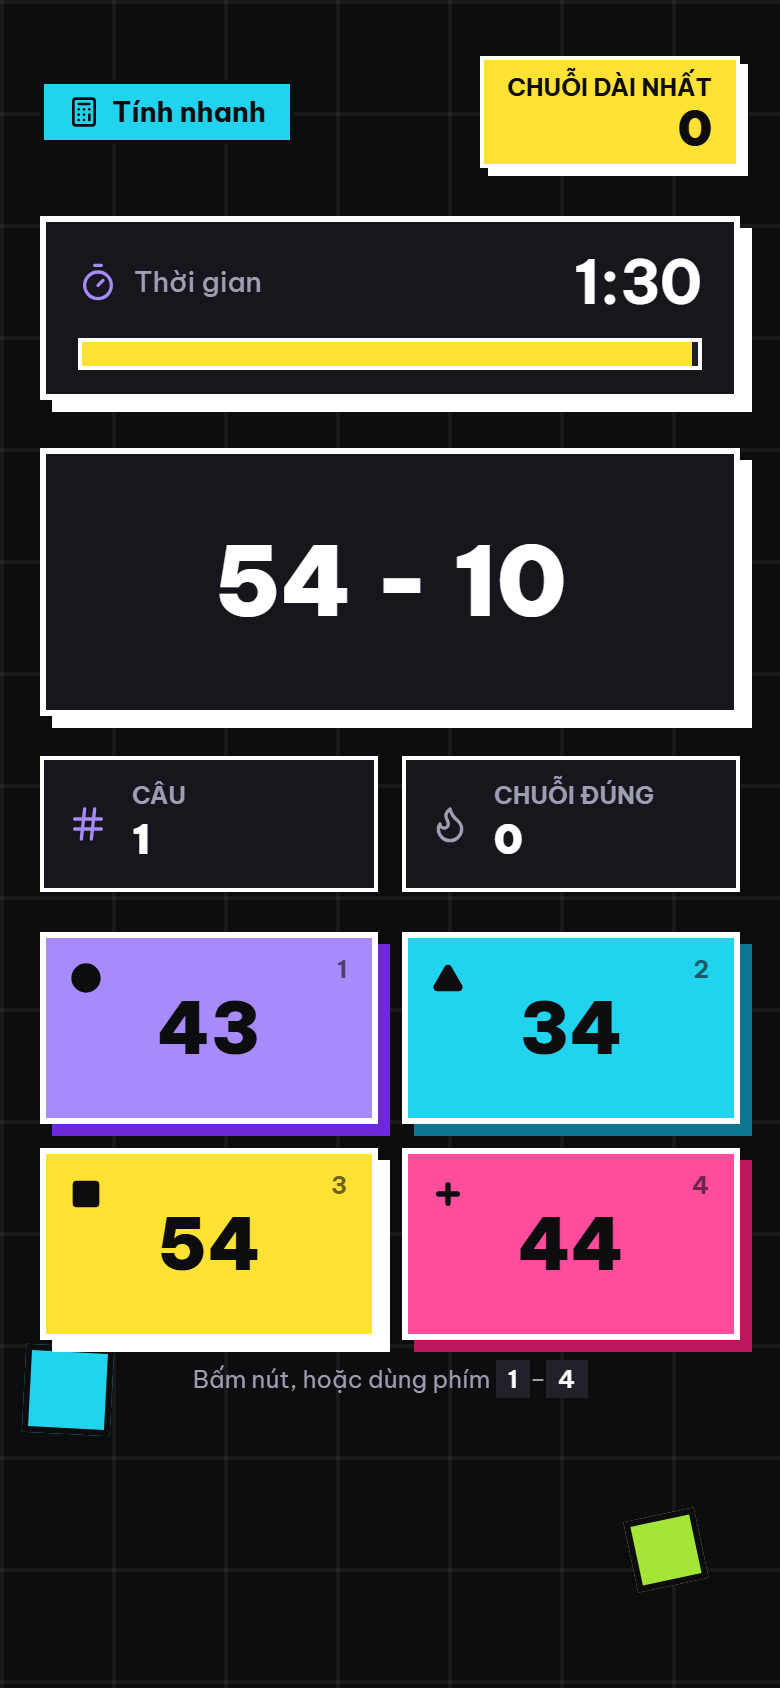
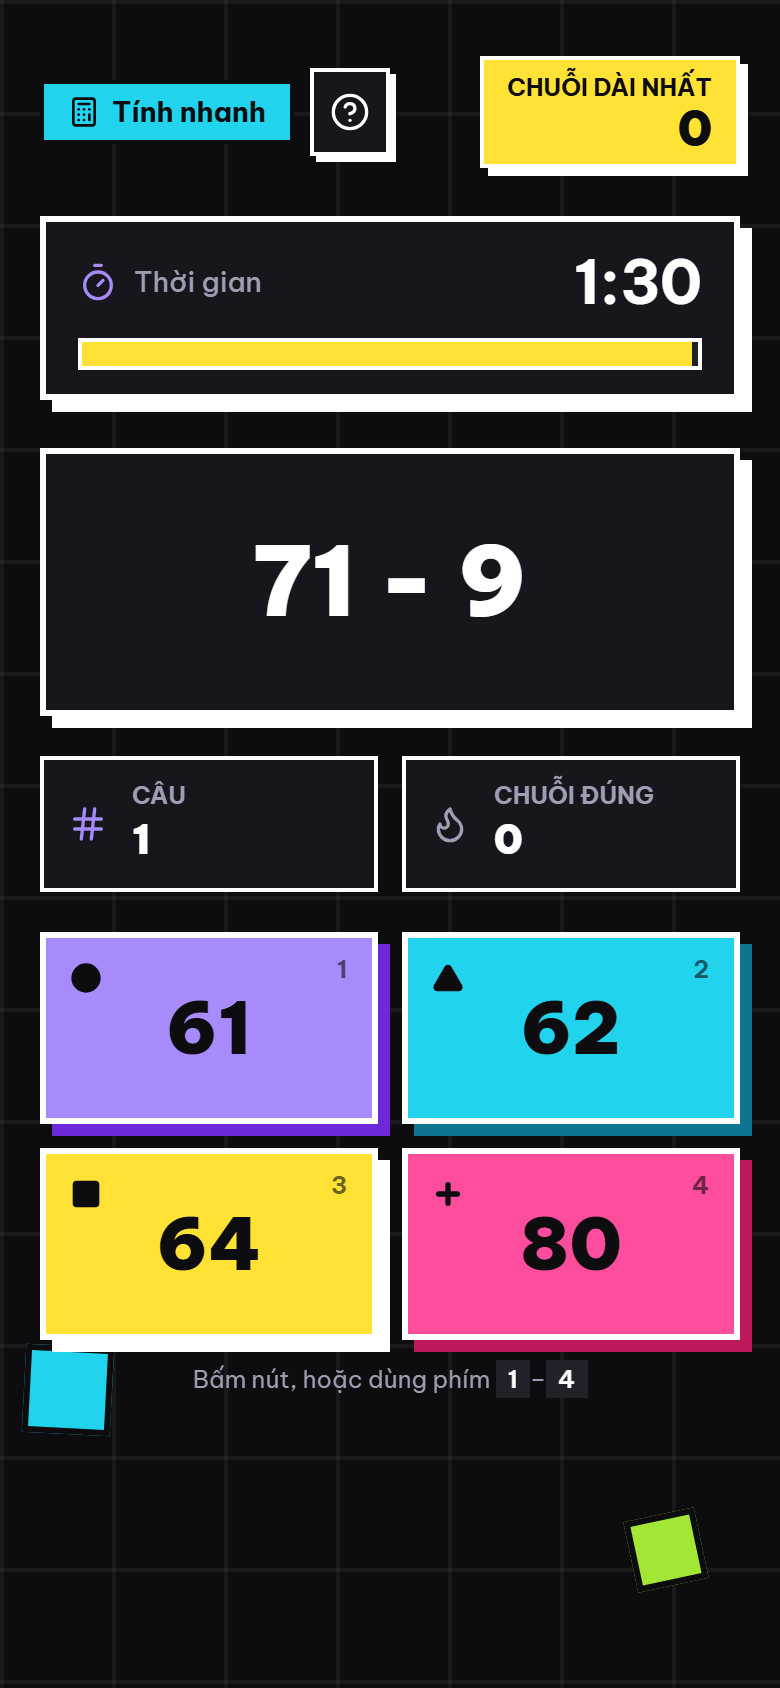
feat(web): hướng dẫn cách chơi cho từng trò
Người chơi ở booth cầm điện thoại lên và có 60 giây, không ai hỏi được ai —
mà màn hình chỉ nói "Nhìn kỹ nhé…" rồi "Lặp lại đi!", tức giả định họ đã biết
luật. Chính người dựng app cũng phải hỏi Nhớ nhanh chơi thế nào.

Hai chỗ, hai kiểu, theo đúng chỗ người chơi đang đứng:
- PHÒNG CHỜ → thẻ bày sẵn, không phải bấm gì. Đứng đợi BTC là khoảng thời gian
  chết duy nhất trong cả lượt, và là lúc duy nhất đọc mà không mất giây nào của
  mình. Giấu sau một cái nút ở đây là bỏ phí đúng lúc người ta rảnh nhất.
- ĐANG CHƠI → nút "?" nhỏ cạnh tên trò, mở ra lớp phủ. Đồng hồ đang chạy nên
  luật không được đứng giữa người chơi và bàn chơi. Lớp phủ nói thẳng "Đồng hồ
  vẫn đang chạy" — mở bảng luật giữa lượt rất dễ bị tưởng là tạm dừng.

Nội dung ở lib/game-guide.ts, tách khỏi game-theme.ts vì đây là NỘI DUNG chứ
không phải trang trí: người sửa luật trong code sẽ không nghĩ tới việc mở file
bảng màu ra.

6 test, trong đó có một test canh độ dài câu — ai đang xếp hàng sẽ không đọc
đoạn văn.

diff --git a/apps/web/src/components/GameGuide.tsx b/apps/web/src/components/GameGuide.tsx
@@ -1,0 +1,123 @@
+import { useEffect, useState } from 'react';
+import { CircleQuestionMark, Lightbulb, Trophy, X } from 'lucide-react';
+import { GAME_GUIDE } from '../lib/game-guide';
+import { GAME_THEME } from '../lib/game-theme';
+import { DURATION_MS, GAME_LABEL, type GameKind } from '../lib/types';
+
+/**
+ * Hướng dẫn chơi, hai kiểu hiện tuỳ chỗ đứng của người chơi:
+ *
+ *   PHÒNG CHỜ  → `GameGuideCard`: bày sẵn ra, không phải bấm gì.
+ *                Lúc đứng đợi BTC là khoảng thời gian chết duy nhất trong cả
+ *                lượt; giấu luật sau một cái nút ở đây là bỏ phí đúng lúc người
+ *                ta rảnh nhất.
+ *   ĐANG CHƠI  → `GameGuideButton`: một nút nhỏ, mở ra lớp phủ.
+ *                Đồng hồ đang chạy nên luật KHÔNG được chiếm chỗ của bàn chơi.
+ */
+
+/** Nội dung luật, dùng chung cho cả thẻ ở phòng chờ lẫn lớp phủ trong lượt. */
+function GuideBody({ game }: { game: GameKind }) {
+  const { steps, scoring, tip } = GAME_GUIDE[game];
+
+  return (
+    <div className="space-y-3">
+      <ol className="space-y-2">
+        {steps.map((step, i) => (
+          <li key={i} className="flex gap-2.5 text-sm">
+            <span
+              aria-hidden="true"
+              className={`grid h-6 w-6 shrink-0 place-items-center font-display text-xs font-black ${GAME_THEME[game].tile}`}
+            >
+              {i + 1}
+            </span>
+            <span className="min-w-0 pt-0.5">{step}</span>
+          </li>
+        ))}
+      </ol>
+
+      <p className="flex items-start gap-2 border-2 border-accent bg-accent px-2.5 py-1.5 text-sm font-bold text-ink">
+        <Trophy aria-hidden="true" className="mt-0.5 h-4 w-4 shrink-0" />
+        {scoring}
+      </p>
+
+      {/* Icon SVG chứ không phải emoji — emoji mỗi hệ máy vẽ một kiểu, và repo
+          này đã chọn lucide cho toàn bộ icon. */}
+      {tip && (
+        <p className="flex items-start gap-1.5 text-xs text-muted">
+          <Lightbulb aria-hidden="true" className="mt-0.5 h-3.5 w-3.5 shrink-0" />
+          {tip}
+        </p>
+      )}
+    </div>
+  );
+}
+
+/** Thẻ luật bày sẵn — dùng ở phòng chờ. */
+export function GameGuideCard({ game }: { game: GameKind }) {
+  return (
+    <section className="card p-5" aria-labelledby="guide-heading">
+      <h2 id="guide-heading" className="mb-3 font-display text-lg font-black uppercase tracking-tight">
+        Cách chơi {GAME_LABEL[game]}
+        <span className="ml-2 font-sans text-sm font-normal text-muted">
+          {DURATION_MS[game] / 1000} giây
+        </span>
+      </h2>
+      <GuideBody game={game} />
+    </section>
+  );
+}
+
+/** Nút mở luật — dùng trong lượt, khi đồng hồ đang chạy. */
+export function GameGuideButton({ game }: { game: GameKind }) {
+  const [open, setOpen] = useState(false);
+
+  useEffect(() => {
+    if (!open) return;
+    const onKey = (e: KeyboardEvent) => {
+      if (e.key === 'Escape') setOpen(false);
+    };
+    window.addEventListener('keydown', onKey);
+    return () => window.removeEventListener('keydown', onKey);
+  }, [open]);
+
+  return (
+    <>
+      <button
+        onClick={() => setOpen(true)}
+        aria-label={`Cách chơi ${GAME_LABEL[game]}`}
+        className="btn btn-ghost btn-sm shrink-0 px-2"
+      >
+        <CircleQuestionMark aria-hidden="true" className="h-5 w-5" />
+      </button>
+
+      {open && (
+        <div
+          role="dialog"
+          aria-modal="true"
+          aria-label={`Cách chơi ${GAME_LABEL[game]}`}
+          onClick={() => setOpen(false)}
+          className="fixed inset-0 z-50 grid place-items-center overflow-y-auto bg-ink/95 p-4"
+        >
+          <div onClick={(e) => e.stopPropagation()} className="card w-full max-w-sm p-5">
+            <h2 className="mb-3 font-display text-lg font-black uppercase tracking-tight">
+              Cách chơi {GAME_LABEL[game]}
+            </h2>
+            <GuideBody game={game} />
+
+            {/*
+              Nói thẳng là đồng hồ KHÔNG dừng. Người chơi mở bảng luật giữa lượt
+              rất dễ tưởng nó tạm dừng giúp mình, rồi đóng ra thì mất mươi giây mà
+              không hiểu vì sao.
+            */}
+            <p className="mt-3 text-xs font-bold text-warn">Đồng hồ vẫn đang chạy.</p>
+
+            <button onClick={() => setOpen(false)} autoFocus className="btn btn-accent mt-4 w-full">
+              <X aria-hidden="true" className="h-5 w-5" />
+              Chơi tiếp
+            </button>
+          </div>
+        </div>
+      )}
+    </>
+  );
+}

diff --git a/apps/web/src/lib/game-guide.ts b/apps/web/src/lib/game-guide.ts
@@ -1,0 +1,60 @@
+import type { GameKind } from './types';
+
+/**
+ * Luật chơi của từng trò, viết cho NGƯỜI CHƠI đọc trong mười giây.
+ *
+ * Tách khỏi `game-theme.ts` (icon, màu) vì đây là NỘI DUNG, không phải trang trí:
+ * sửa luật trong code thì phải sửa cả ở đây, và để nó nằm cạnh bảng màu thì
+ * người sửa luật không nghĩ tới chuyện mở file đó ra.
+ *
+ * Viết theo thứ tự người chơi gặp: thấy gì trước, làm gì tiếp, rồi mới tới điểm.
+ * Mỗi bước một câu, không câu nào dài quá một dòng trên điện thoại — ai đang xếp
+ * hàng ở booth sẽ không đọc đoạn văn.
+ */
+export interface GameGuide {
+  /** Các bước, theo đúng thứ tự người chơi gặp. */
+  steps: string[];
+  /** Điểm tính thế nào — thứ quyết định người ta chơi ra sao. */
+  scoring: string;
+  /** Một mẹo hoặc một cái bẫy đáng nói trước. Bỏ trống nếu không có gì đáng. */
+  tip?: string;
+}
+
+export const GAME_GUIDE: Record<GameKind, GameGuide> = {
+  math: {
+    steps: [
+      'Màn hình hiện một phép tính, bốn đáp án ở dưới.',
+      'Bấm ô có đáp án đúng — trên máy tính gõ được phím 1–4.',
+      'Trả lời sai thì chuỗi về 0, nhưng kỷ lục cũ vẫn giữ nguyên.',
+    ],
+    scoring: 'Điểm = CHUỖI ĐÚNG DÀI NHẤT, không phải tổng số câu đúng.',
+    tip: 'Đúng liên tiếp mới ăn điểm, nên chậm một nhịp còn hơn bấm bừa.',
+  },
+  draw: {
+    steps: [
+      'Màn hình cho một từ khoá — vẽ đúng thứ đó.',
+      'AI đoán liên tục trong lúc bạn vẽ, xem dòng "AI nghĩ: …".',
+      'AI nhận ra rồi thì bấm NỘP BÀI ngay. Hết giờ server tự nộp hộ.',
+    ],
+    scoring: 'Điểm = 150 trừ số giây đã dùng. AI không nhận ra thì 0 điểm.',
+    tip: 'Vẽ to, một nét liền, đừng thêm chi tiết — nộp sớm mới được điểm cao.',
+  },
+  memory: {
+    steps: [
+      'Bốn ô sẽ nháy sáng theo một thứ tự.',
+      'Nháy xong, bấm lại đúng thứ tự vừa thấy.',
+      'Đúng thì chuỗi dài thêm một ô; sai thì về cấp 1, kỷ lục vẫn giữ.',
+    ],
+    scoring: 'Điểm = CẤP CAO NHẤT vượt được.',
+    tip: 'Chờ nháy xong hẳn mới bấm: bấm trong lúc còn đang nháy bị tính là gian lận.',
+  },
+  spot: {
+    steps: [
+      'Cả lưới cùng một màu, đúng MỘT ô lệch màu một chút.',
+      'Chạm vào ô lệch đó.',
+      'Mỗi cấp lưới dày thêm và hai màu sát nhau hơn.',
+    ],
+    scoring: 'Điểm = CẤP CAO NHẤT vượt được. Chạm trượt thì về cấp 1, kỷ lục vẫn giữ.',
+    tip: 'Nhìn lướt cả lưới, đừng soi từng ô — mắt bắt chỗ lệch nhanh hơn là dò.',
+  },
+};

diff --git a/apps/web/src/components/GameGuide.test.tsx b/apps/web/src/components/GameGuide.test.tsx
@@ -1,0 +1,71 @@
+// @vitest-environment jsdom
+import { cleanup, fireEvent, render, screen } from '@testing-library/react';
+import { afterEach, describe, expect, it } from 'vitest';
+import { GameGuideButton, GameGuideCard } from './GameGuide';
+import { GAME_GUIDE } from '../lib/game-guide';
+import { GAME_KINDS } from '../lib/types';
+
+/**
+ * Người chơi ở booth có 60 giây và không ai hỏi được ai. Luật phải ở ngay đó,
+ * và phải đúng trò họ sắp chơi — hiện nhầm luật còn tệ hơn không hiện gì.
+ */
+afterEach(() => cleanup());
+
+describe('GameGuideCard (phòng chờ)', () => {
+  it('bày sẵn luật, không phải bấm gì', () => {
+    render(<GameGuideCard game="memory" />);
+    for (const step of GAME_GUIDE.memory.steps) {
+      expect(screen.getByText(step)).toBeTruthy();
+    }
+    expect(screen.getByText(GAME_GUIDE.memory.scoring)).toBeTruthy();
+  });
+
+  it('hiện luật của ĐÚNG trò, không phải trò khác', () => {
+    render(<GameGuideCard game="spot" />);
+    expect(screen.getByText(GAME_GUIDE.spot.steps[0]!)).toBeTruthy();
+    expect(screen.queryByText(GAME_GUIDE.math.steps[0]!)).toBeNull();
+  });
+});
+
+describe('GameGuideButton (trong lượt)', () => {
+  it('mặc định ĐÓNG — không che bàn chơi', () => {
+    render(<GameGuideButton game="math" />);
+    expect(screen.queryByRole('dialog')).toBeNull();
+    expect(screen.queryByText(GAME_GUIDE.math.steps[0]!)).toBeNull();
+  });
+
+  it('bấm thì mở, và nói rõ đồng hồ vẫn chạy', () => {
+    render(<GameGuideButton game="math" />);
+    fireEvent.click(screen.getByRole('button', { name: /cách chơi/i }));
+
+    expect(screen.getByRole('dialog')).toBeTruthy();
+    expect(screen.getByText(GAME_GUIDE.math.steps[0]!)).toBeTruthy();
+    // Mở bảng luật giữa lượt rất dễ bị tưởng là tạm dừng.
+    expect(screen.getByText(/đồng hồ vẫn đang chạy/i)).toBeTruthy();
+  });
+
+  it('đóng được bằng nút, và bằng phím Esc', () => {
+    render(<GameGuideButton game="draw" />);
+    const open = () => fireEvent.click(screen.getByRole('button', { name: /cách chơi/i }));
+
+    open();
+    fireEvent.click(screen.getByRole('button', { name: /chơi tiếp/i }));
+    expect(screen.queryByRole('dialog')).toBeNull();
+
+    open();
+    fireEvent.keyDown(window, { key: 'Escape' });
+    expect(screen.queryByRole('dialog')).toBeNull();
+  });
+});
+
+describe('nội dung luật', () => {
+  it('trò nào cũng có đủ các bước và cách tính điểm', () => {
+    for (const game of GAME_KINDS) {
+      const guide = GAME_GUIDE[game];
+      expect(guide.steps.length).toBeGreaterThanOrEqual(2);
+      expect(guide.scoring.length).toBeGreaterThan(10);
+      // Câu dài quá thì không ai đọc lúc đang xếp hàng.
+      for (const step of guide.steps) expect(step.length).toBeLessThanOrEqual(80);
+    }
+  });
+});

diff --git a/apps/web/src/routes/Play.tsx b/apps/web/src/routes/Play.tsx
@@ -7,6 +7,7 @@ import { useRoundStream } from '../lib/sse';
 import { Shell } from '../components/Shell';
 import { Countdown } from '../components/Countdown';
 import { ConnectionPill, GameChip, Spinner } from '../components/Chips';
+import { GameGuideButton } from '../components/GameGuide';
 import { MathGame } from './MathGame'; // TRACK A
 import { DrawGame } from './DrawGame'; // TRACK B
 import { MemoryGame } from './MemoryGame'; // TRACK C
@@ -93,6 +94,9 @@ export function Play() {
       <div className="flex items-center justify-between gap-3">
         <div className="flex min-w-0 flex-wrap items-center gap-2">
           <GameChip game={state.game} />
+          {/* Nút nhỏ, không chiếm chỗ: đồng hồ đang chạy, luật không được đứng
+              giữa người chơi và bàn chơi. */}
+          <GameGuideButton game={state.game} />
           {!connected && <ConnectionPill connected={false} offlineLabel="Mất kết nối…" />}
         </div>
         <div className="shrink-0 border-2 border-line bg-accent px-3 py-1.5 text-right text-ink shadow-[4px_4px_0_var(--color-edge)]">

diff --git a/apps/web/src/routes/Lobby.tsx b/apps/web/src/routes/Lobby.tsx
@@ -7,6 +7,7 @@ import { useRoundStream } from '../lib/sse';
 import { Shell } from '../components/Shell';
 import { Avatar } from '../components/Avatar';
 import { ConnectionPill, GameChip, WaitDots } from '../components/Chips';
+import { GameGuideCard } from '../components/GameGuide';
 import { DEFAULT_MAX_PLAYERS, type RoundState } from '../lib/types';
 
 /**
@@ -116,6 +117,13 @@ export function Lobby() {
           )}
         </ul>
       </section>
+
+      {/*
+        Luật bày SẴN ở đây, không giấu sau nút: đứng đợi BTC là khoảng thời gian
+        chết duy nhất trong cả lượt, và là lúc duy nhất người chơi đọc được mà
+        không mất giây nào của mình.
+      */}
+      {state && <GameGuideCard game={state.game} />}
 
       <p role="status" className="flex items-center justify-center gap-2 text-muted">
         Đang chờ BTC bắt đầu
